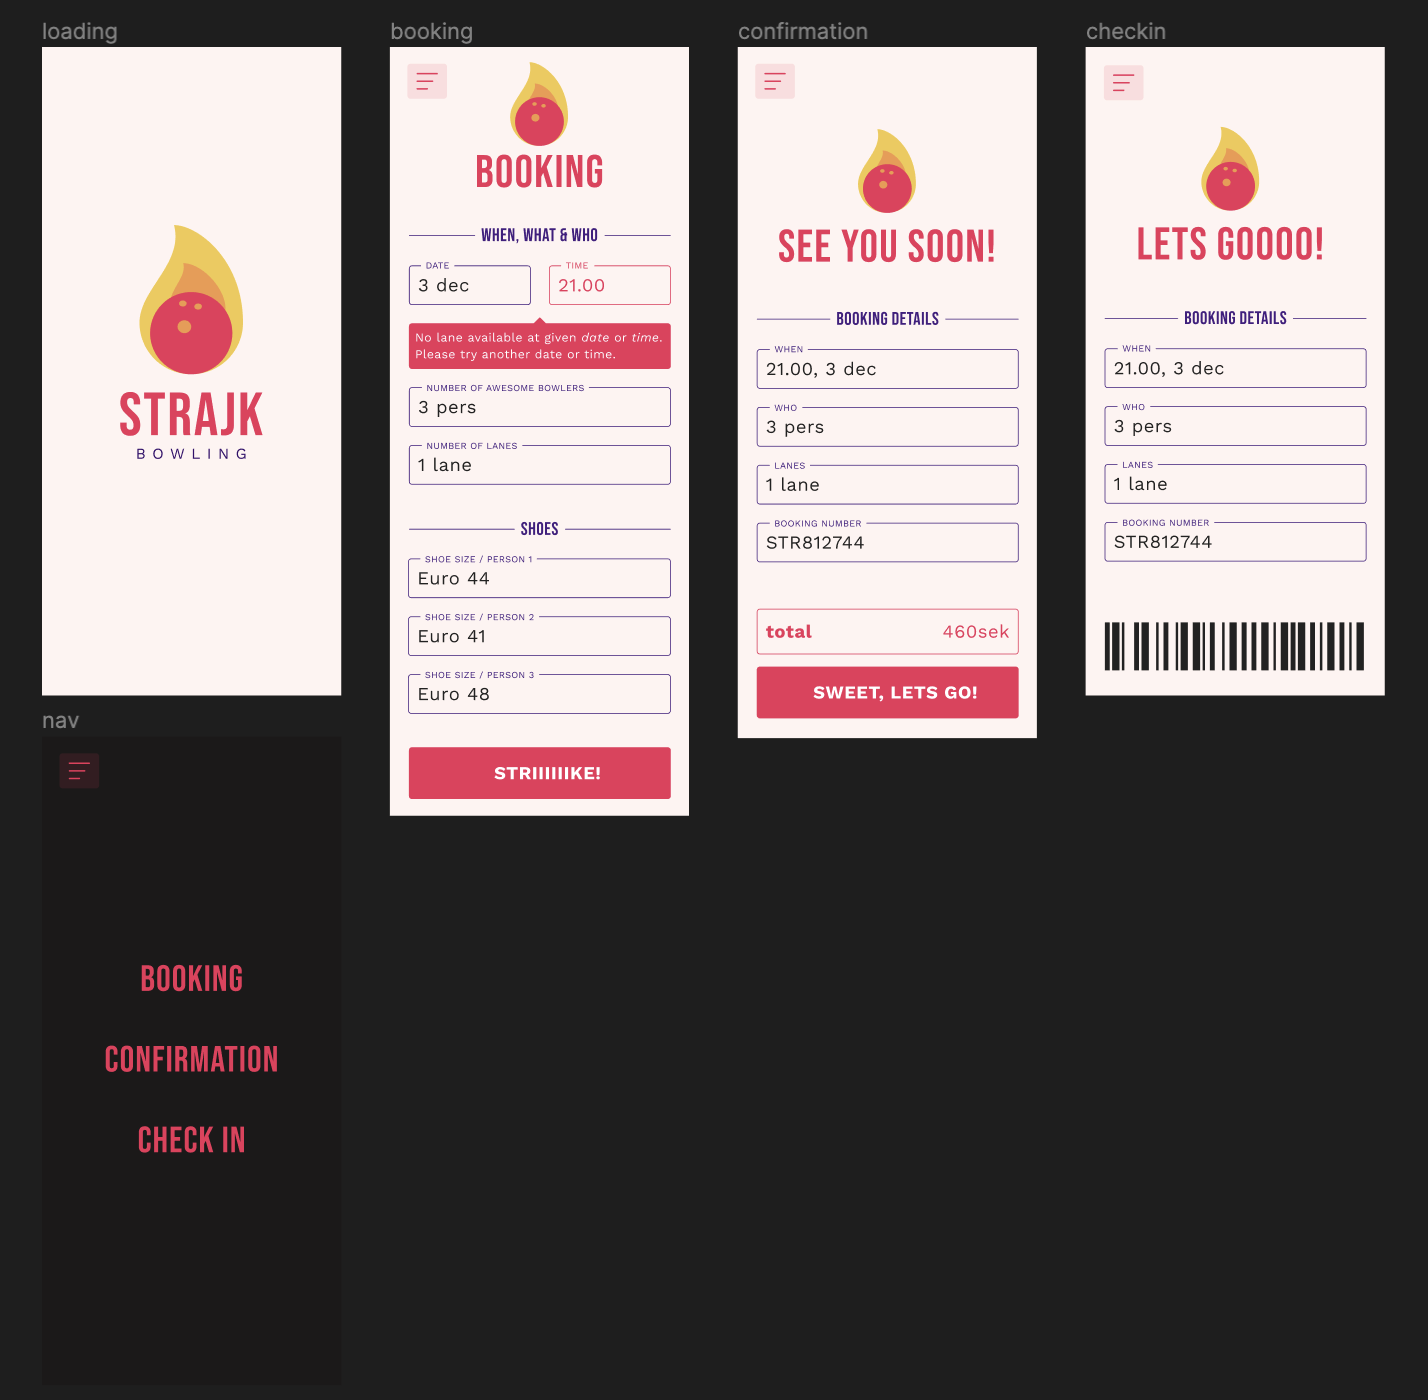
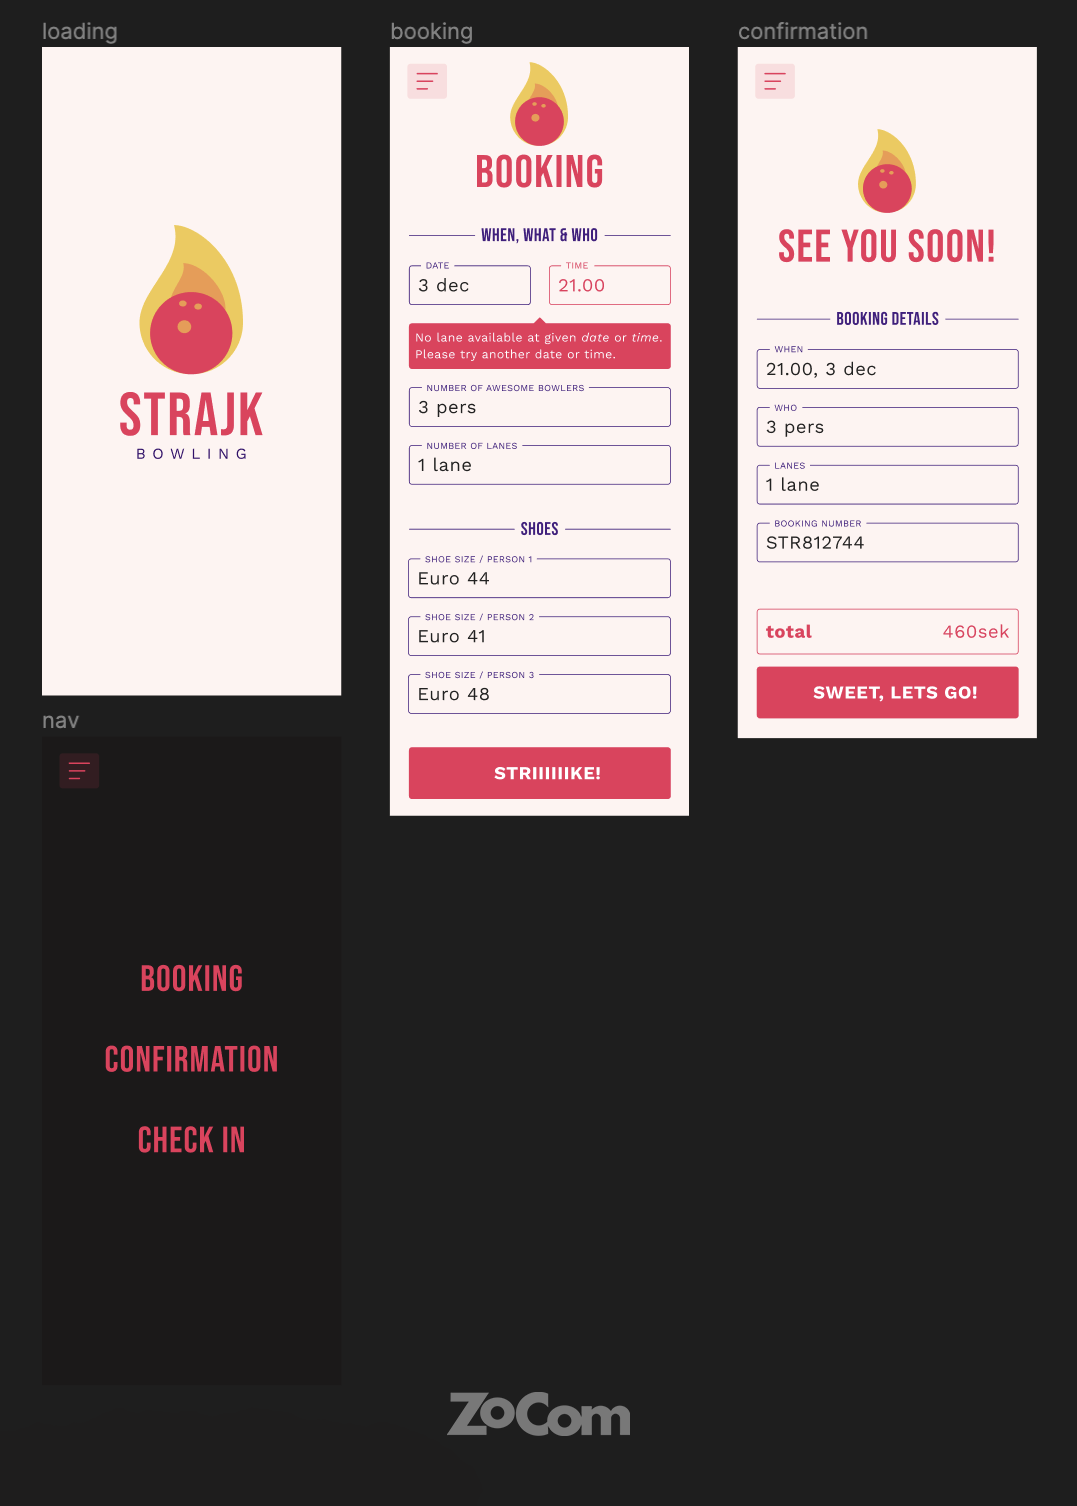
update

diff --git a/README.md b/README.md
@@ -1,10 +1,11 @@
 ![poster](./poster.png)
 
 <section style="padding: 1rem; font-size: 1.4rem; background-color: #EC315A; color: #FFF4F1; border-radius: 4px; margin: 1rem 0;">
-Hej och välkommen till detta lilla kodtest som kommer ta dig ca 1 - 2h att genomföra. Syftet med testet är <em>flexa dina utvecklar-muskler</em> samt <em>förse oss med samtalsunderlag vid inbokad avstämning.</em> Visa vad du går för! 
-</section>
+Hej och välkommen till detta lilla kodtest som kommer ta dig ca 2h att genomföra. Syftet med testet är <em>flexa dina utvecklar-muskler</em> samt <em>förse oss med samtalsunderlag vid inbokad avstämning.</em> Visa vad du går för!
 
-# Frontend / Mobilapp
+Du jobbar direkt i detta repo, men jobba gärna enligt [gitflow](https://www.atlassian.com/git/tutorials/comparing-workflows/gitflow-workflow) eller annan [vedertagen git-strategi](https://www.flagship.io/git-branching-strategies/).
+
+</section>
 
 ## Om projektet
 
@@ -13,7 +14,9 @@ Hej och välkommen till detta lilla kodtest som kommer ta dig ca 1 - 2h att geno
 
 ## Val av tekniker
 
-Om inget annat gjorts upp, är du fri att välja språk och tekniker.
+- React
+- Scss ( optional )
+- Typescript ( optional )
 
 ## Krav
 
@@ -22,50 +25,37 @@ Om inget annat gjorts upp, är du fri att välja språk och tekniker.
 - Boka en bana för N antal personer
 - Boka N antal skor
 - Se en bekräftelse på sin bokning
-- Checka in när det är strike-dags
 
-| View Namn    | Funktionalitet                                                                                                                                                                                                                                                                                  |
-| ------------ | ----------------------------------------------------------------------------------------------------------------------------------------------------------------------------------------------------------------------------------------------------------------------------------------------- |
-| Loading      | Kan visas vid inläsning av cachead sida. Optional.                                                                                                                                                                                                                                              |
-| Booking      | Användaren ska kunna boka _datum_ och _tid_ samt ange _antal spelare_. Vid val av spelare skall formulär för skobokning dyka upp. Väljs ex. 3 spelare, dyker 3 inputfält upp. Vid knapp på strike skickas _request_ iväg till servern. Finns bana ej tillgäng skall detta visas i gränssnittet. |
-| Confirmation | Vid ivägskickad request fås en bokning tillbaka inkl totalsumma ( 120kr / pers + 100kr / bana )och bokningsnummer.                                                                                                                                                                              |
-| Check In     | Denna vy visas ( och scannas ) vid inchecking vid bokat tillfället. Tänk på det som en biljett.                                                                                                                                                                                                 |
-| Meny         | Vid klick på _naviconen_ visas menyn på lämpligt sätt.                                                                                                                                                                                                                                          |
+| View Namn    | Funktionalitet                                                                                                                                                                                                                         |
+| ------------ | -------------------------------------------------------------------------------------------------------------------------------------------------------------------------------------------------------------------------------------- |
+| Loading      | Kan visas vid inläsning av cachead sida. Optional.                                                                                                                                                                                     |
+| Booking      | Användaren ska kunna boka _datum_ och _tid_ samt ange _antal spelare_. Vid val av spelare skall formulär för skobokning dyka upp. Väljs ex. 3 spelare, dyker 3 inputfält upp. Vid knapp på strike skickas _request_ iväg till servern. |
+| Confirmation | Vid ivägskickad request fås en bokning tillbaka inkl totalsumma ( 120kr / pers + 100kr / bana )och bokningsnummer.                                                                                                                     |
+| Meny         | Vid klick på _naviconen_ visas menyn på lämpligt sätt.                                                                                                                                                                                 |
 
 ![screens](./screens.png)
 
-# Backend
+## Backend API
 
-## Om projektet
+Din app ska skicka en `booking request` bokningar till Strajks backend. Du får då tillbaka ett `booking response`.
 
-**Strajk bowling är en nyöppnad bowlinghall i centrala Bromölla. Ägaren K. Ägla gillar tekniska lösningar och har tillsammans med brorsonen Keso Ägla [byggt en frontend](https://www.figma.com/file/67YvtKEq7iljjXqjGvJRMx/Strajk-1.0?node-id=0%3A1), och skissat ihop en kravspec för backendfunktionalitet. Ditt jobb är att bygga backenden.**
+Se nedan för detaljer.
 
-## Val av teknik
+**Main REST endpoint.**
 
-Om inget annat gjorts upp, är du fri att välja språk, tekniker och databas.
+```
+https://h5jbtjv6if.execute-api.eu-north-1.amazonaws.com
+```
 
-## Krav
+**För _Auth_, använd headern `x-api-key` i din http-request med API-nyckel:**
 
-**Backend ska ha följande egenskaper:**
+```
+738c6b9d-24cf-47c3-b688-f4f4c5747662
+```
 
-- 6st bokningsbara banor tillgängliga mellan kl 9.00 och 22.00 varje dag.
-- Visa ett REST API ta emot och validera `booking request` från frontend.
-- Kika upp om banor finns tillgängliga önskad tid.
-- _Om tillgänglig_, räkna ut totalt _pris_, generera _id_ samt _active_-egenskap för att aktivera bokning.
-- _Om ej tillgänglig_, skicka 400-response och meddelandet "lane not available".
-- Ta emot och validera bokning vid en `checkin request`.
-- Spara banor samt bokningar i valfri databas.
-- Visa banornas bokningar.
+## Models
 
-## API Spec
-
-| Resurs   | Metod | Beskrivning                                                         |
-| -------- | ----- | ------------------------------------------------------------------- |
-| /book    | POST  | Validera input samt vid tillgänglig bana och tid, skapa en bokning. |
-| /checkin | POST  | Validerar och checkar in.                                           |
-| /lanes   | GET   | Returnerar array av `Lane`                                          |
-
-## Booking Model
+### Booking Model
 
 **Request**
 
@@ -88,16 +78,8 @@ Om inget annat gjorts upp, är du fri att välja språk, tekniker och databas.
   "shoes": [38, 39, 44, 43],
   "price": 580, // räknas ut på serversidan
   "id": "str7283472", // genereras på serversidan
-  "active": true // anges på serversidan. Ändras av vid validering av bokning ( check in)
+  "active": true // anges på serversidan.
 }
 ```
 
-## Lane Model
-
-```json
-{
-  "id": 1,
-  "title": "Lane 1",
-  "bookings": [Booking]
-}
-```
+Lycka till, och vid frågor kontakta *johan.kivi@zocom.se*
